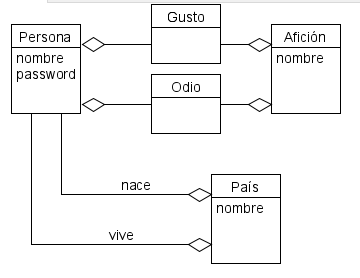
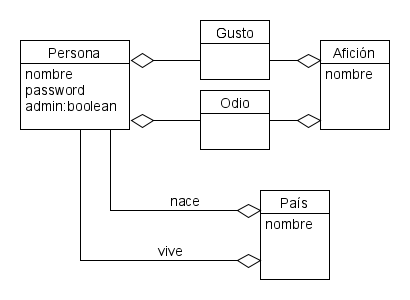
CASA 08/12

Changed region(s): [[0.0306, 0.0, 1.0, 0.9496]]

diff --git a/t1/MVC/CodeIgniter/papCI2021-master/assets/js/image.js b/t1/MVC/CodeIgniter/papCI2021-master/assets/js/image.js
@@ -1,0 +1,33 @@
+$(document).ready(function() {
+	$("#id-form").submit(function(e) {
+		e.preventDefault();
+		$('#id-modal').on('shown.bs.modal', function() {
+			$(this).find('[autofocus]').focus();
+		});
+		$.ajax({
+			url: 'http://[::1]/nqst/usuario/create_post',
+			type: 'POST',
+			data: $("#id-form").serialize(),
+			dataType: "json",
+			success: function(data) {
+				$("#id-modal-message").html(data.message);
+				if (data.severity == "ERROR") {
+					$("#id-modal-header").html("ERROR");
+					$("#id-modal-message").attr('class', 'modal-title text-center bg-danger');
+					$("#id-modal").modal('show');
+				}
+				else if (data.severity == "WARNING") {
+					$("#id-modal-header").html("Atención");
+					$("#id-modal-message").attr('class', 'modal-title text-center bg-warning');
+					$("#id-modal").modal('show');
+				}
+				else { //SUCCESS
+					$(location).attr("href", data.message);
+
+				}
+
+			}
+		})
+	});
+});
+

diff --git a/t1/MVC/CodeIgniter/papCI2021-master/application/controllers/Persona.php b/t1/MVC/CodeIgniter/papCI2021-master/application/controllers/Persona.php
@@ -20,6 +20,8 @@ class Persona extends CI_Controller {
     }
     
     public function logout() {
+        rolAutorizado(['auth','admin']);
+        
         if (session_status() == PHP_SESSION_NONE) {session_start ();}
         if (isset($_SESSION['usuario'])) {
             unset($_SESSION['usuario']);
@@ -28,12 +30,16 @@ class Persona extends CI_Controller {
     }
     
     public function r() {
+        rolAutorizado(['auth','admin']);
+        
         $this->load->model('Persona_model');
         $data['personas'] = $this->Persona_model->getAll();
         frame($this,'persona/r',$data);
     }
     
     public function c() {
+        rolAutorizado(['admin']);
+        
         $this->load->model('Pais_model');
         $data['paises'] = $this->Pais_model->getAll();
         
@@ -44,6 +50,8 @@ class Persona extends CI_Controller {
     }
     
     public function cPost() {
+        rolAutorizado(['admin']);
+        
         $nombre = isset($_POST['nombre']) ? $_POST['nombre'] : 'John Doe';
         $password = isset($_POST['password']) ? $_POST['password'] : '';
         $idPaisNace = isset($_POST['idPaisNace']) ? $_POST['idPaisNace'] : null;
@@ -64,6 +72,8 @@ class Persona extends CI_Controller {
     
     function u()
     {
+        rolAutorizado(['admin']);
+        
         $idPersona = isset($_GET['idPersona']) ? $_GET['idPersona'] : null;
         
         $this->load->model('Persona_model');
@@ -79,6 +89,8 @@ class Persona extends CI_Controller {
     
     function uPost()
     {
+        rolAutorizado(['admin']);
+        
         $nombre = isset($_POST['nombre']) ? $_POST['nombre'] : 'ninguno';
         $idPersona = isset($_POST['idPersona']) ? $_POST['idPersona'] : null;
         $idPaisNace = isset($_POST['idPaisNace']) ? $_POST['idPaisNace'] : null;
@@ -97,6 +109,8 @@ class Persona extends CI_Controller {
     }
     
     function d() {
+        rolAutorizado(['admin']);
+        
         $idPersona = isset($_GET['idPersona']) ? $_GET['idPersona'] : null;
         $this->load->model('Persona_model');
         $data['persona'] = $this->Persona_model->getPersonaById($idPersona);

diff --git a/t1/MVC/CodeIgniter/papCI2021-master/application/controllers/Aficion.php b/t1/MVC/CodeIgniter/papCI2021-master/application/controllers/Aficion.php
@@ -7,10 +7,12 @@ class Aficion extends CI_Controller {
     }
     
     function c() {
+        rolAutorizado(['admin']);
         frame($this,'aficion/c');
     }
     
     function cPost() {
+        rolAutorizado(['admin']);
         $nombre = isset($_POST['nombre'])?$_POST['nombre']:'ninguno';
         $this->load->model('Aficion_model');
         try {
@@ -24,6 +26,7 @@ class Aficion extends CI_Controller {
 
     function u()
     {
+        rolAutorizado(['admin']);
         $idAficion = isset($_GET['idAficion']) ? $_GET['idAficion'] : null;
         $this->load->model('Aficion_model');
         $data['aficion'] = $this->Aficion_model->getAficionById($idAficion);
@@ -32,6 +35,7 @@ class Aficion extends CI_Controller {
     
     function uPost()
     {
+        rolAutorizado(['admin']);
         $nombre = isset($_POST['nombre']) ? $_POST['nombre'] : 'ninguno';
         $idAficion = isset($_POST['idAficion']) ? $_POST['idAficion'] : null;
         
@@ -46,6 +50,7 @@ class Aficion extends CI_Controller {
     }
     
     function d() {
+        rolAutorizado(['admin']);
         $idAficion = isset($_GET['idAficion']) ? $_GET['idAficion'] : null;
         $this->load->model('Aficion_model');
         $data['aficion'] = $this->Aficion_model->getAficionById($idAficion);
@@ -54,6 +59,7 @@ class Aficion extends CI_Controller {
     
     function dPost()
     {
+        rolAutorizado(['admin']);
         $idAficion = isset($_POST['idAficion']) ? $_POST['idAficion'] : null;
         $this->load->model('Aficion_model');
         

diff --git a/t1/MVC/CodeIgniter/papCI2021-master/application/controllers/Pais.php b/t1/MVC/CodeIgniter/papCI2021-master/application/controllers/Pais.php
@@ -12,12 +12,13 @@ class Pais extends CI_Controller
 
     function c()
     {
-        rolAutorizado('admin');
+        rolAutorizado(['admin']);
         frame($this, 'pais/c');
     }
 
     function cPost()
     {
+        rolAutorizado(['admin']);
         $nombre = isset($_POST['nombre']) ? $_POST['nombre'] : 'ninguno';
         $this->load->model('Pais_model');
         try {
@@ -34,6 +35,7 @@ class Pais extends CI_Controller
 
     function u()
     {
+        rolAutorizado(['admin']);
         $idPais = isset($_GET['idPais']) ? $_GET['idPais'] : null;
         $this->load->model('Pais_model');
         $data['pais'] = $this->Pais_model->getPaisById($idPais);
@@ -42,6 +44,7 @@ class Pais extends CI_Controller
 
     function uPost()
     {
+        rolAutorizado(['admin']);
         $nombre = isset($_POST['nombre']) ? $_POST['nombre'] : 'ninguno';
         $idPais = isset($_POST['idPais']) ? $_POST['idPais'] : null;
 
@@ -56,6 +59,7 @@ class Pais extends CI_Controller
     }
 
     function d() {
+        rolAutorizado(['admin']);
         $idPais= isset($_GET['idPais']) ? $_GET['idPais'] : null;
         $this->load->model('Pais_model');
         $data['pais'] = $this->Pais_model->getPaisById($idPais);
@@ -64,6 +68,7 @@ class Pais extends CI_Controller
     
     function dPost()
     {
+        rolAutorizado(['admin']);
         $idPais = isset($_POST['idPais']) ? $_POST['idPais'] : null;
         $this->load->model('Pais_model');
 

diff --git a/t1/MVC/CodeIgniter/CI/application/models/Persona_model.php b/t1/MVC/CodeIgniter/CI/application/models/Persona_model.php
@@ -1,17 +1,34 @@
 <?php
 class Persona_model extends CI_Model {
     
-    function c($nombre, $paisN, $paisV) {
-        $pais = R::findOne('pais','nombre=?',[$nombre]);
-        
+    function c($nombre, $paisN, $paisV,$idsAficionGusta,$idsAficionOdia) {
         if ($paisN==null) {
             throw new Exception("ID País no puede ser nulo");
         }
+        
+        
             $persona = R::dispense('persona');
             $persona->nombre = $nombre;
             $persona->nace = R::load('pais',$paisN);
             $persona->vive = R::load('pais',$paisV);
+            
+            foreach ($idsAficionGusta as $idAficionGusta) {
+                $aficionGusta = R::load('aficion',$idAficionGusta);
+                $gusto = R::dispense('gusto');
+                $gusto->persona = $persona;
+                $gusto->aficion = $aficionGusta;
+                R::store($gusto);
+            }
+            foreach ($idsAficionOdia as $idAficionOdia) {
+                $aficionOdia = R::load('aficion',$idAficionOdia);
+                $odio = R::dispense('odio');
+                $odio->persona = $persona;
+                $odio->aficion = $aficionOdia;
+                R::store($odio);
+            }
+            
             R::store($persona);
+        
     }
     
     

diff --git a/t1/MVC/CodeIgniter/papCI2021-master/application/views/persona/c.php b/t1/MVC/CodeIgniter/papCI2021-master/application/views/persona/c.php
@@ -1,5 +1,6 @@
+
 <div class="container">
-	<form action="<?=base_url()?>persona/cPost" method="post">
+	<form id="id-form" action="<?=base_url()?>persona/cPost" method="post">
 		
 		<h1>Nueva persona</h1>
 		
@@ -10,6 +11,33 @@
 		<label for="id-pwd">Contraseña</label>
 		<input id="id-pwd" type="password" name="password" />
 		<br/>
+		
+		<script>
+    		 $(window).on("load",(function(){
+    		 $(function() {
+    		 $('#id-foto').change(function(e) {addImage(e);});
+    		 function addImage(e){
+    			var file = e.target.files[0],
+    			imageType = /image.*/;
+    			if (!file.type.match(imageType)) return;
+    			var reader = new FileReader();
+    			reader.onload = fileOnload;
+    			reader.readAsDataURL(file);
+    		}
+    		function fileOnload(e) {
+    		var result=e.target.result;
+    		$('#id-out-foto').attr("src",result);
+    		}});}));
+		</script>
+
+		<label for="id-foto">Foto de perfil</label>
+		<input id="id-foto" type="file" name="foto" />
+		<img class="offset-1 col-2" id="id-out-foto" 
+			width="3%" height="3%" 
+			src="<?=base_url().'assets/img/fotos/foto-0.png'?>" 
+			alt=""/>
+		<br/>
+		
 		
 		País de nacimiento
 		<select name="idPaisNace">

diff --git a/t1/MVC/CodeIgniter/CI/application/controllers/Persona.php b/t1/MVC/CodeIgniter/CI/application/controllers/Persona.php
@@ -18,12 +18,13 @@ class Persona extends CI_Controller {
         $nombre = isset($_POST['nombre'])?$_POST['nombre']:'ninguno';
         $paisN = isset($_POST['paisN'])?$_POST['paisN']:'ninguno';
         $paisV = isset($_POST['paisV'])?$_POST['paisV']:'ninguno';
-        
-        $this->load->model('Persona_model');
+        $idsAficionGusta = isset($_POST['idAficionGusta']) ? $_POST['idAficionGusta'] : [];
+        $idsAficionOdia = isset($_POST['idAficionOdia']) ? $_POST['idAficionOdia'] : [];
+        echo $paisN;
         try {
             $this->load->model('Persona_model');
+            $this->Persona_model->c($nombre,$paisN, $paisV, $idsAficionGusta, $idsAficionOdia);
             $datos['personas'] = $this->Persona_model->getAll();
-            $this->Persona_model->c($nombre,$paisN, $paisV);
             $datos['mensaje'] = 'Persona insertada correctamente';
             $datos['color'] = 'success';
             frame($this,'persona/r', $datos);

diff --git a/t1/MVC/CodeIgniter/CI/application/views/persona/c.php b/t1/MVC/CodeIgniter/CI/application/views/persona/c.php
@@ -5,7 +5,7 @@
 		<input id="id-nombre" type="text" name="nombre"/>
 		<br/>
 		<label for="id-paisN">Pais de nacimiento</label>
-		<select name="PaisN" id="id-paisN">
+		<select name="paisN" id="id-paisN">
 			<?php foreach ($paises as $pais):?>
 			<option value="<?=$pais->id ?>">
 				<?=$pais->nombre?>
@@ -14,14 +14,15 @@
 		</select>
 		<br/>
 		<label for="id-paisV">Pais de residencia</label>
-		<select name="PaisV" id="id-paisV">
+		<select name="paisV" id="id-paisV">
 			<?php foreach ($paises as $pais):?>
+			<?php $v = $pais->id?>
 			<option value="<?=$pais->id ?>">
 				<?=$pais->nombre?>
 			</option>
 			<?php endforeach;?>
 		</select>
-		
+		<?= $v?>
 		<h3>Aficiones que le gustan</h3>
 			<?php foreach ($aficiones as $aficion): ?>
     			<input id ="idg-<?=$aficion->id?>" type="checkbox" value="<?=$aficion->id?>" name="idAficionGusta[]"/>

diff --git a/t1/MVC/CodeIgniter/CI/application/views/persona/r.php b/t1/MVC/CodeIgniter/CI/application/views/persona/r.php
@@ -29,7 +29,14 @@
 				<?=($persona->nace_id) != null ? $persona->fetchAs('pais')->nace->nombre : '' ?>
 			</td>
 			<td>
-				
+				<?php foreach ($persona->ownGustoList as $gusto):?>
+					<?= $gusto->aficion_id!=NULL ? $gusto->aficion->nombre : '';?>
+				<?php endforeach;?>
+			</td>
+			<td>
+				<?php foreach ($persona->ownOdioList as $odio):?>
+					<?= $odio->aficion_id!=NULL ? $odio->aficion->nombre : '';?>
+				<?php endforeach;?>
 			</td>
 			<td>
 				

diff --git a/t1/MVC/CodeIgniter/papCI2021-master/application/helpers/app_helper.php b/t1/MVC/CodeIgniter/papCI2021-master/application/helpers/app_helper.php
@@ -22,7 +22,7 @@ function errorMsg($mensaje,$uri='') {
 }
 
 
-function rolAutorizado($rolAutorizado) {
+function rolAutorizado($rolesAutorizados) {
     $rolActual='anon';
     if (session_status()==PHP_SESSION_NONE) {
         session_start();
@@ -34,7 +34,7 @@ function rolAutorizado($rolAutorizado) {
         }
     }
     
-    if ($rolActual!=$rolAutorizado) {
+    if (!in_array($rolActual,$rolesAutorizados)) {
         errorMsg('Rol inadecuado');
     }
 }

diff --git a/t1/MVC/CodeIgniter/CI/application/models/Aficion_model.php b/t1/MVC/CodeIgniter/CI/application/models/Aficion_model.php
@@ -5,7 +5,7 @@ class Aficion_model extends CI_Model {
         $aficion = R::findOne('aficion','nombre=?',[$nombre]);
         
         if ($aficion==null) {
-            $aficion=R::dispense('pais');
+            $aficion=R::dispense('aficion');
             $aficion->nombre = $nombre;
             R::store($aficion);
         }
